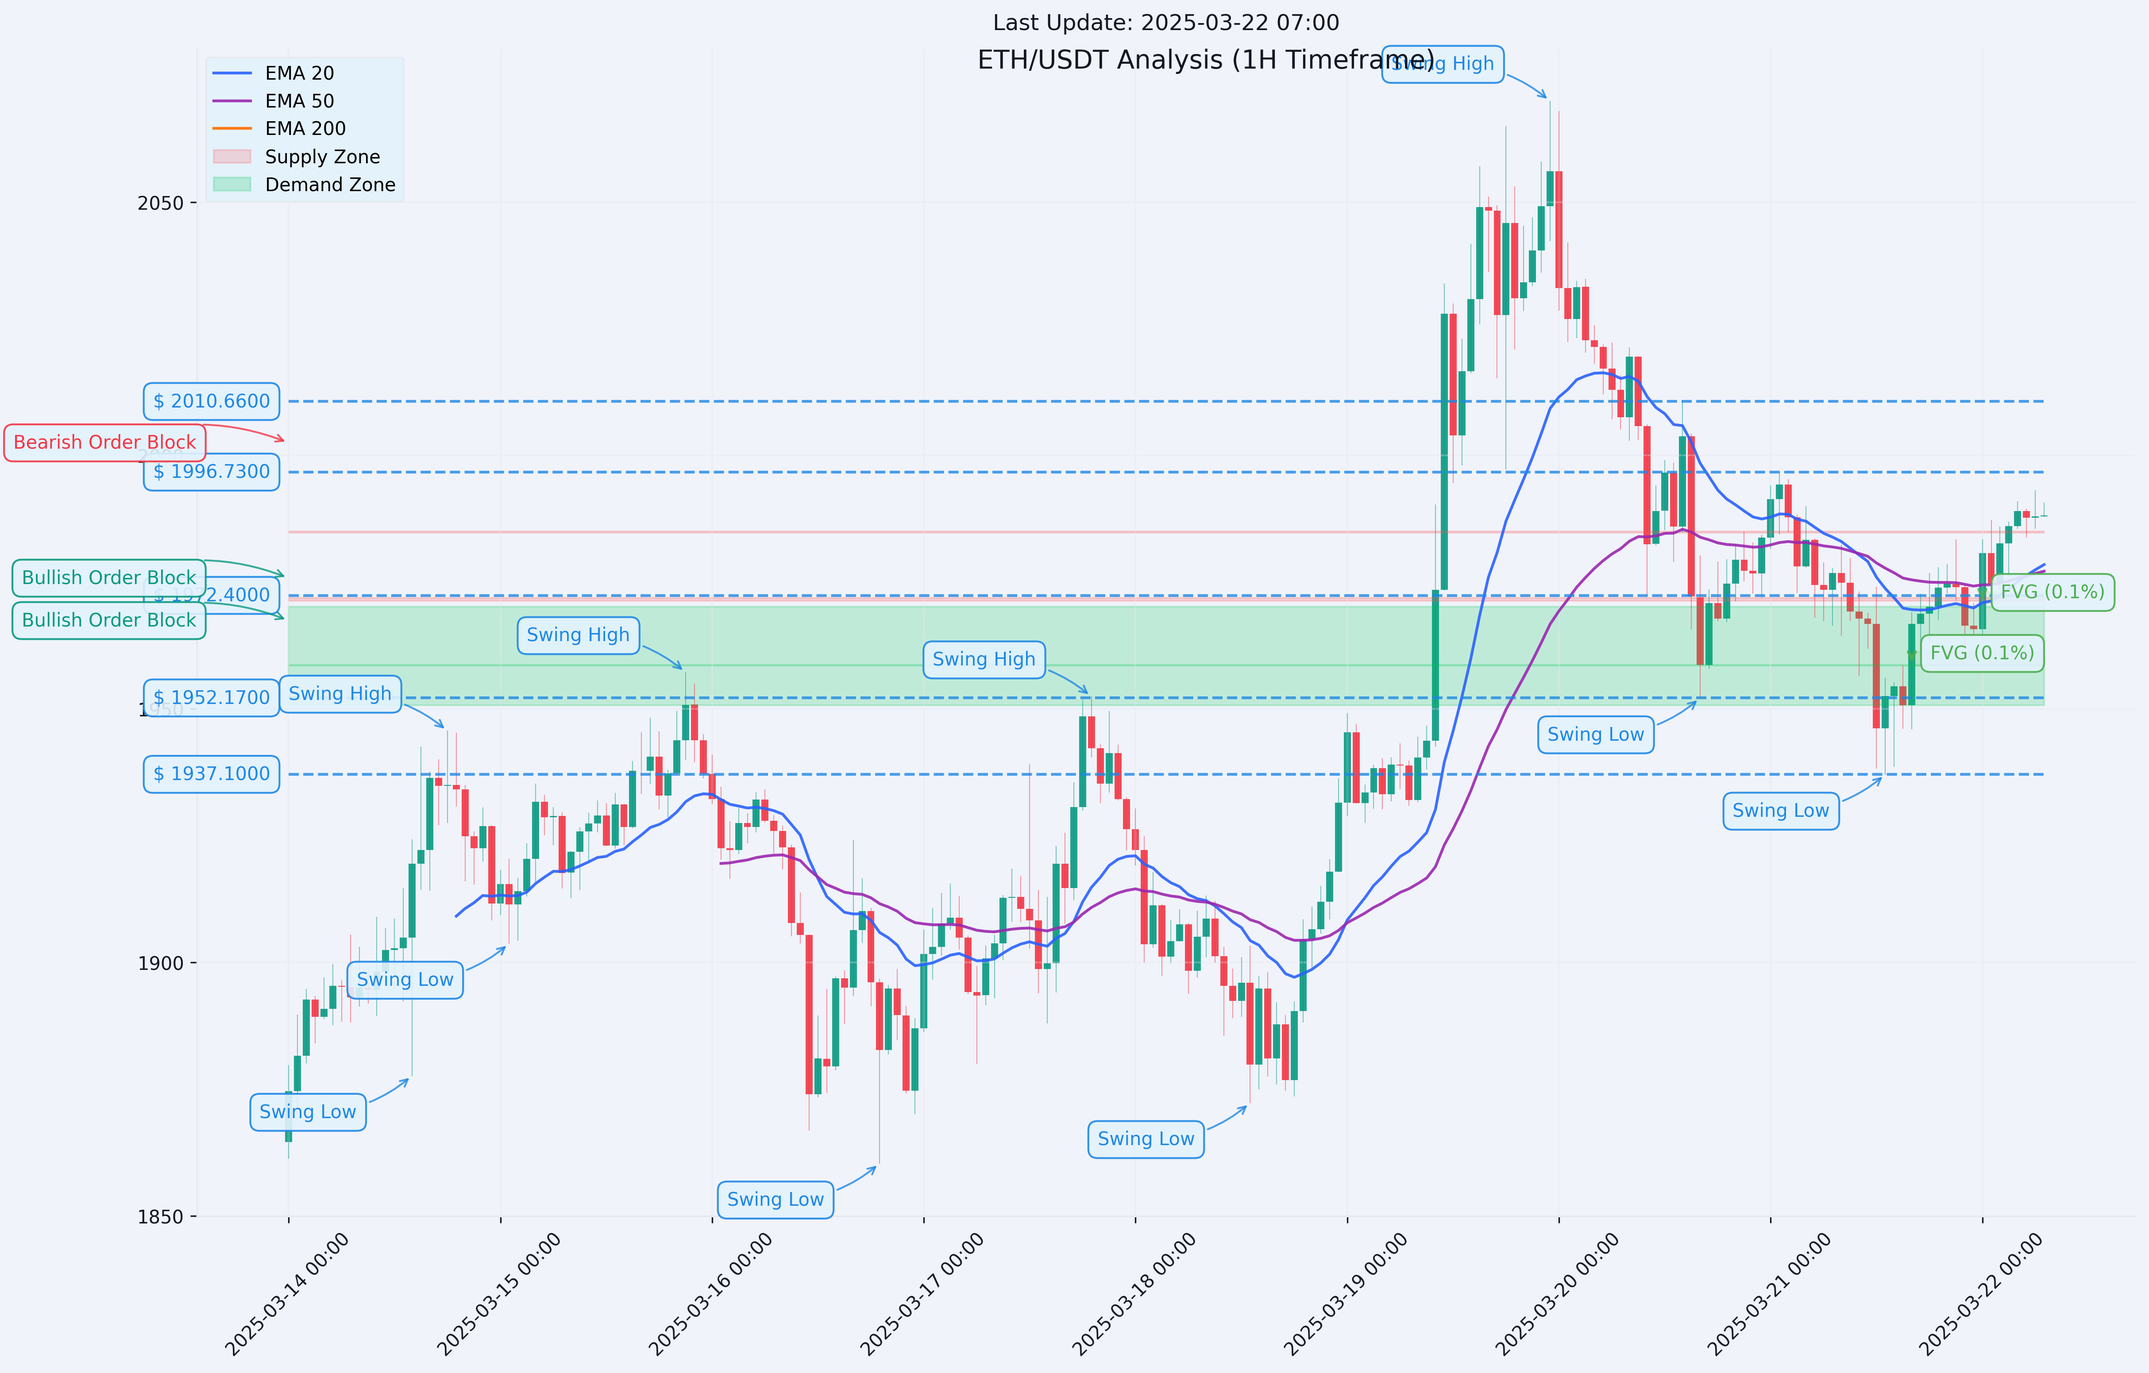
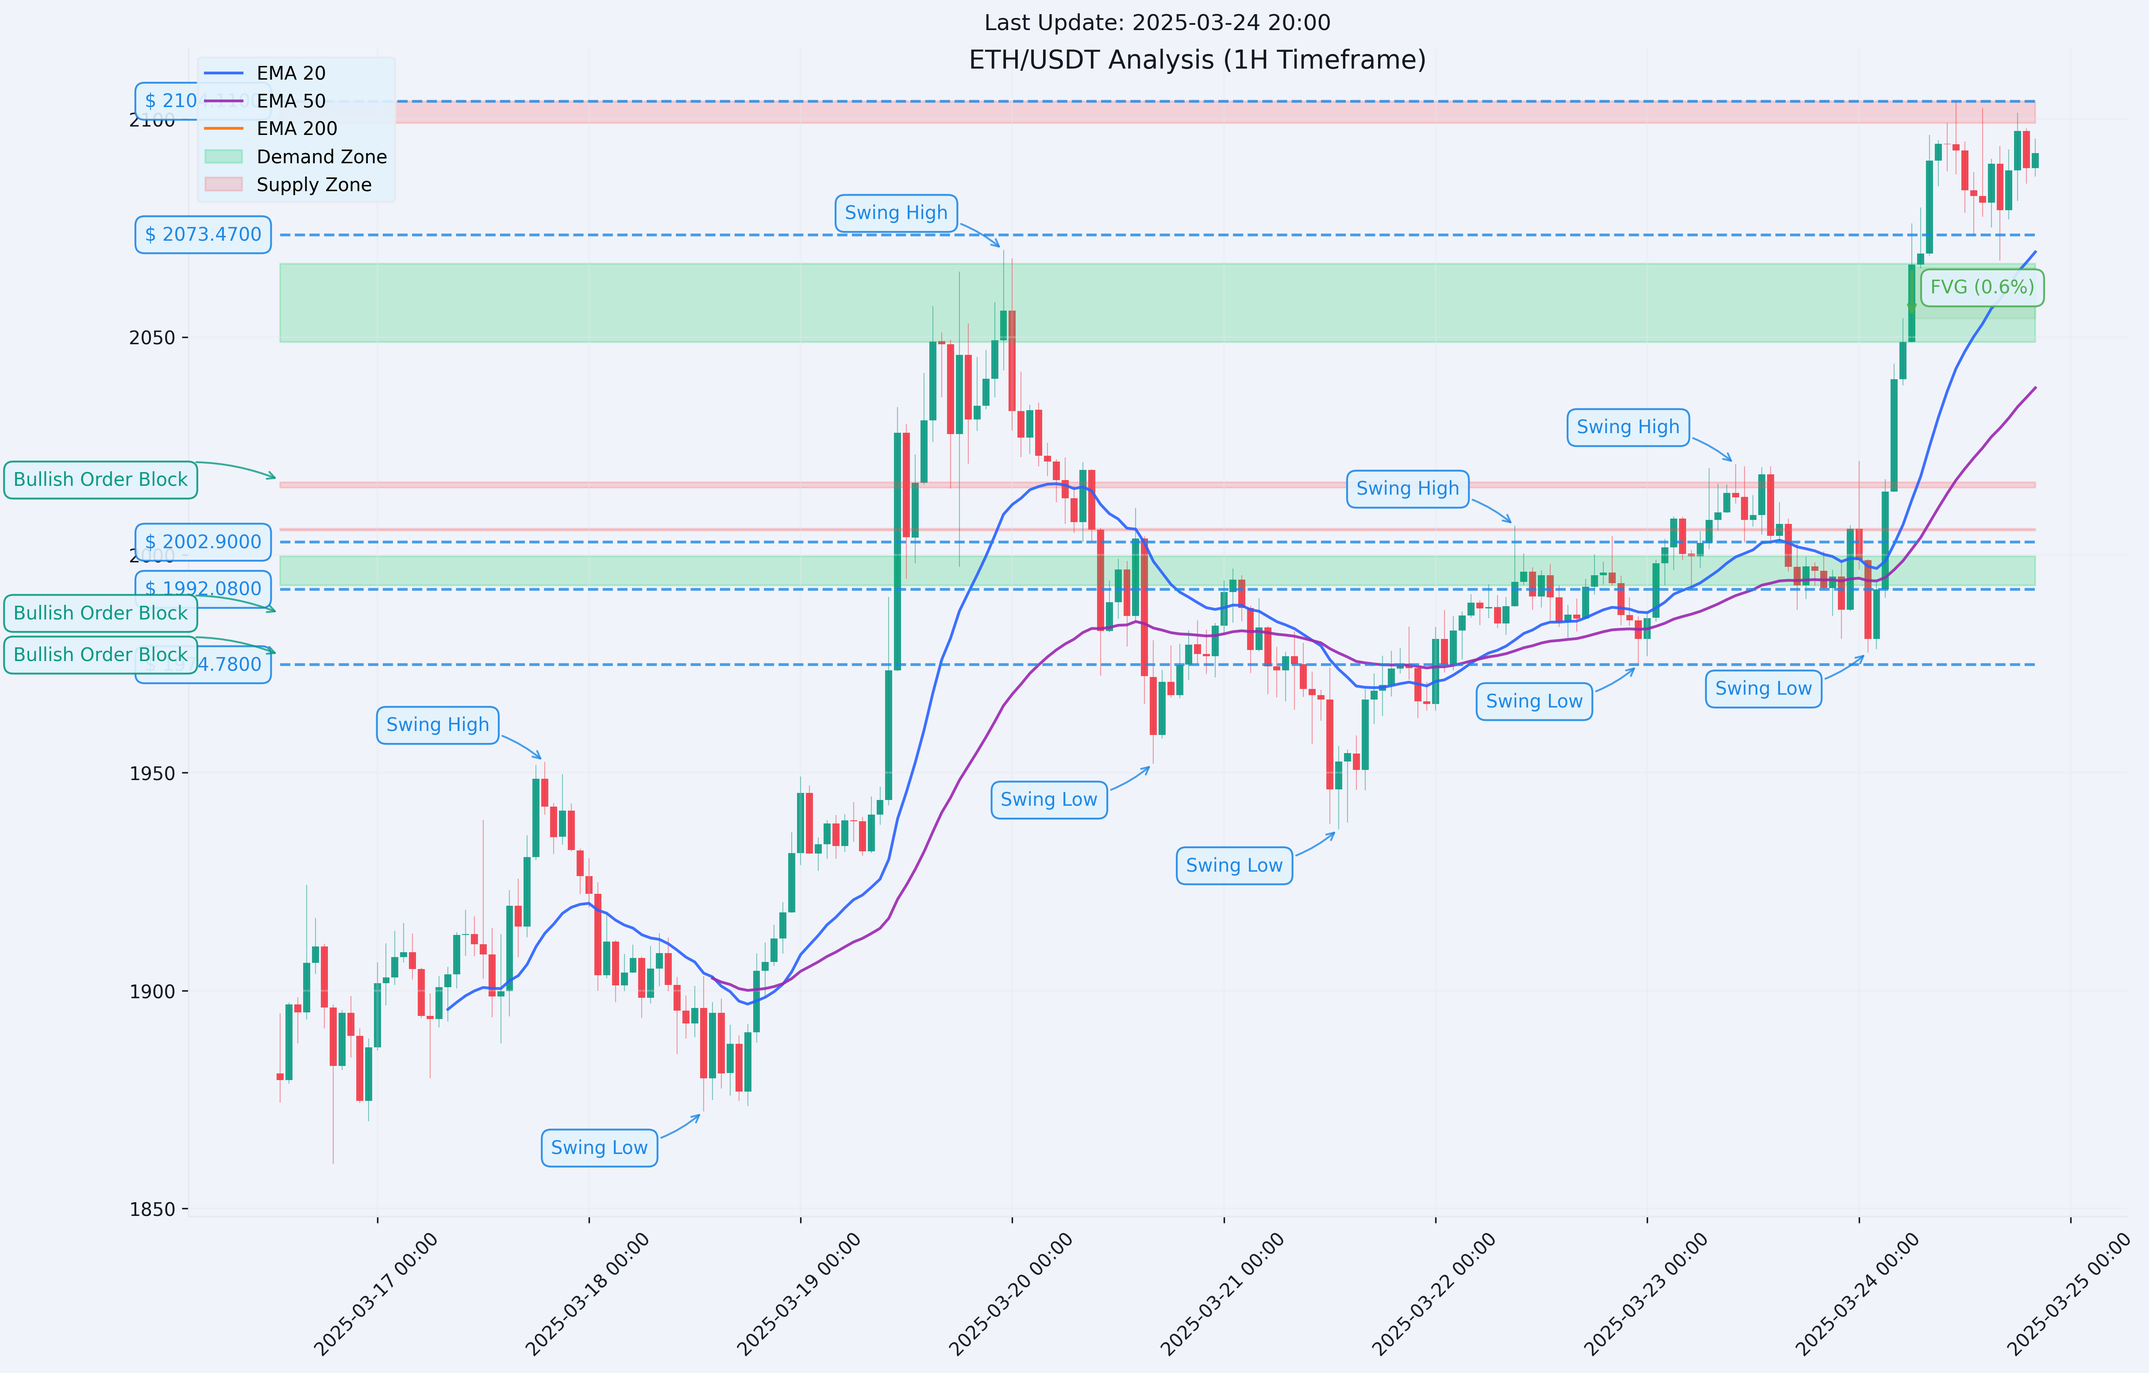
new

diff --git a/smc.py b/smc.py
@@ -17,18 +17,50 @@ ALPHA_VANTAGE_API_KEY = API_KEYS['alphavantage']
 OANDA_API_KEY = API_KEYS['oanda']
 MT5_TERMINAL_PATH = MT5_CONFIG['path']
 
+
+
 # Initialize exchange (using ccxt)
 def initialize_exchange(exchange_id='binance', api_key=None, secret=None):
-    exchange_class = getattr(ccxt, exchange_id)
-    exchange = exchange_class({
-        'apiKey': api_key,
-        'secret': secret,
-        'enableRateLimit': True,
-    })
-    return exchange
+    try:
+        exchange_class = getattr(ccxt, exchange_id)
+        exchange = exchange_class({
+            'apiKey': api_key,
+            'secret': secret,
+            'enableRateLimit': True,
+            'options': {
+                'defaultType': 'spot',  # Set to 'spot' for spot trading
+                'adjustForTimeDifference': True,
+                'recvWindow': 60000,  # Increased timeout
+            },
+            'timeout': 30000,  # 30 seconds timeout
+        })
 
+        # Load markets to ensure proper symbol mapping
+        exchange.load_markets()
+
+        # Set specific settings for BTC analysis
+        exchange.options['warnOnFetchOHLCVLimitArgument'] = False
+        exchange.options['fetchOHLCVWarning'] = False
+        
+        # Test connection with a simple BTC ticker request
+        try:
+            exchange.fetch_ticker('BTC/USDT')
+        except Exception as e:
+            print(f"Error testing BTC ticker: {e}")
+            return None
+            
+        return exchange
+    except Exception as e:
+        print(f"Error initializing exchange: {e}")
+        return None
+
+# Initialize with better error handling
 exchange = initialize_exchange()
+if exchange is None:
+    print("Warning: Exchange initialization failed. Using backup data source.")
+   
 
+   # Initialize MT5 connection
 def initialize_forex_connection():
     """Initialize connection for forex data"""
     try:
@@ -215,6 +247,7 @@ def add_technical_indicators(df):
     df['atr'] = ta.volatility.average_true_range(df['high'], df['low'], df['close'])
     
     return df
+
 
 
 # ===== LIQUIDITY DETECTION =====
@@ -576,8 +609,8 @@ def plot_chart(df, liquidity_zones, supply_demand_zones, order_blocks,
         'bar_up': '#089981',       # Forest green for bullish
         'bar_down': '#f23645',     # Crimson red for bearish
         'ma1': '#2962ff',          # Royal blue for EMA 20
-        'ma2': '#9c27b0',         # Purple for EMA 50
-        'ma3': '#ff6d00',         # Orange for EMA 200
+        'ma2': '#9c27b0',          # Purple for EMA 50
+        'ma3': '#ff6d00',          # Orange for EMA 200
         'text': '#131722',         # Dark gray text
         'liquidity': '#1E88E5',    # Main blue for liquidity zones
         'supply': '#FF5252',       # Red for supply zones
@@ -624,27 +657,67 @@ def plot_chart(df, liquidity_zones, supply_demand_zones, order_blocks,
     # Plot entry points, stop-loss, and take-profit levels with prices
     if not smart_entries.empty:
         last_timestamp = df['timestamp_mpl'].iloc[-1]
+        timestamp_width = last_timestamp - df['timestamp_mpl'].iloc[-2]
+        
         for _, entry in smart_entries.iterrows():
             # Entry point line and price
-            ax_main.axhline(y=entry['entry_price'], color='yellow', linestyle='--', alpha=0.8)
-            ax_main.text(last_timestamp, entry['entry_price'], 
+            ax_main.axhline(y=entry['entry_price'], color='yellow', linestyle='--', linewidth=2, alpha=0.8)
+            ax_main.plot([last_timestamp - timestamp_width, last_timestamp + timestamp_width], 
+                        [entry['entry_price'], entry['entry_price']], 
+                        color='yellow', linewidth=2, alpha=1)
+            ax_main.text(last_timestamp + timestamp_width*0.5, entry['entry_price'], 
                         f" Entry @ {entry['entry_price']:.4f}", 
-                        color='yellow', fontweight='bold', va='bottom', ha='left',
-                        bbox=dict(facecolor='black', alpha=0.7, edgecolor='yellow'))
+                        color='yellow', fontweight='bold', va='center', ha='left',
+                        bbox=dict(facecolor='black', alpha=0.8, edgecolor='yellow', pad=3))
 
             # Stop-loss line and price
-            ax_main.axhline(y=entry['stop_loss'], color='red', linestyle='--', alpha=0.8)
-            ax_main.text(last_timestamp, entry['stop_loss'], 
+            ax_main.axhline(y=entry['stop_loss'], color='red', linestyle='--', linewidth=2, alpha=0.8)
+            ax_main.plot([last_timestamp - timestamp_width, last_timestamp + timestamp_width], 
+                        [entry['stop_loss'], entry['stop_loss']], 
+                        color='red', linewidth=2, alpha=1)
+            ax_main.text(last_timestamp + timestamp_width*0.5, entry['stop_loss'], 
                         f" SL @ {entry['stop_loss']:.4f}", 
-                        color='red', fontweight='bold', va='bottom', ha='left',
-                        bbox=dict(facecolor='black', alpha=0.7, edgecolor='red'))
+                        color='red', fontweight='bold', va='center', ha='left',
+                        bbox=dict(facecolor='black', alpha=0.8, edgecolor='red', pad=3))
 
             # Take-profit line and price
-            ax_main.axhline(y=entry['take_profit'], color='green', linestyle='--', alpha=0.8)
-            ax_main.text(last_timestamp, entry['take_profit'], 
+            ax_main.axhline(y=entry['take_profit'], color='green', linestyle='--', linewidth=2, alpha=0.8)
+            ax_main.plot([last_timestamp - timestamp_width, last_timestamp + timestamp_width], 
+                        [entry['take_profit'], entry['take_profit']], 
+                        color='green', linewidth=2, alpha=1)
+            ax_main.text(last_timestamp + timestamp_width*0.5, entry['take_profit'], 
                         f" TP @ {entry['take_profit']:.4f}", 
-                        color='green', fontweight='bold', va='bottom', ha='left',
-                        bbox=dict(facecolor='black', alpha=0.7, edgecolor='green'))
+                        color='green', fontweight='bold', va='center', ha='left',
+                        bbox=dict(facecolor='black', alpha=0.8, edgecolor='green', pad=3))
+
+            # Add connecting lines with arrows
+            ax_main.annotate('', xy=(last_timestamp, entry['stop_loss']), 
+                           xytext=(last_timestamp, entry['entry_price']),
+                           arrowprops=dict(arrowstyle='<->', color='yellow', lw=1.5, alpha=0.6))
+            ax_main.annotate('', xy=(last_timestamp, entry['entry_price']), 
+                           xytext=(last_timestamp, entry['take_profit']),
+                           arrowprops=dict(arrowstyle='<->', color='yellow', lw=1.5, alpha=0.6))
+
+            # Add Risk:Reward ratio and trade direction
+            risk = abs(entry['entry_price'] - entry['stop_loss'])
+            reward = abs(entry['take_profit'] - entry['entry_price'])
+            rr_ratio = reward / risk
+            mid_price = entry['entry_price'] + (entry['take_profit'] - entry['entry_price']) / 2
+            
+            # Display R:R ratio
+            ax_main.text(last_timestamp + timestamp_width*0.5, mid_price,
+                        f"R:R = 1:{rr_ratio:.1f}",
+                        color='white', fontweight='bold', ha='left', va='center',
+                        bbox=dict(facecolor='black', alpha=0.8, edgecolor='yellow', pad=3))
+
+            # Display trade direction
+            direction_color = 'yellow' if entry['type'] == 'long' else 'red'
+            ax_main.text(last_timestamp + timestamp_width*0.5, 
+                        entry['entry_price'] - (price_range * 0.02),
+                        f"{entry['type'].upper()} TRADE",
+                        color=direction_color, fontweight='bold', ha='left', va='top',
+                        bbox=dict(facecolor='black', alpha=0.8, 
+                                edgecolor=direction_color, pad=3))
 
     # Initialize label position trackers
     right_labels = []
@@ -878,6 +951,19 @@ def analyze_market(symbol, chart_timeframe='4h', entry_timeframe='15m'):
     signals = generate_trading_signals(df_entry, liquidity_zones, supply_demand_zones, 
                                     order_blocks, candlestick_patterns, smart_entries, trend)
     
+    # Convert signals to smart_entries format for plotting
+    if not signals.empty:
+        smart_entries = pd.DataFrame([{
+            'type': signal['signal_type'],
+            'entry_price': signal['entry_price'],
+            'stop_loss': signal['stop_loss'],
+            'take_profit': signal['take_profit']
+        } for _, signal in signals.iterrows()])
+    
+    # Plot using 4h data but mark entry points from signals
+    plot_chart(df_chart, liquidity_zones, supply_demand_zones, order_blocks, 
+              candlestick_patterns, smart_entries, fair_value_gaps, symbol)
+    
     # Log any potential trade setups
     if not signals.empty:
         log_trades(symbol, signals)
@@ -894,10 +980,6 @@ def analyze_market(symbol, chart_timeframe='4h', entry_timeframe='15m'):
     print(f"Order blocks found: {len(order_blocks)}")
     print(f"Candlestick patterns found: {len(candlestick_patterns)}")
     print(f"Smart entries found: {len(smart_entries)}")
-    
-    # Plot using 4h data but mark entry points from 15m analysis
-    plot_chart(df_chart, liquidity_zones, supply_demand_zones, order_blocks, 
-                  candlestick_patterns, smart_entries, fair_value_gaps, symbol)
     
     return {
         'symbol': symbol,
@@ -937,7 +1019,7 @@ def generate_trading_signals(df, liquidity_zones, supply_demand_zones,
                 'confidence': confidence,
                 'reason': entry['reason'],
                 'risk_reward_ratio': abs(entry['take_profit'] - entry['entry_price']) / abs(entry['entry_price'] - entry['stop_loss'])
-            })
+            })   
         
         return pd.DataFrame(signals)
     
@@ -1490,6 +1572,7 @@ def main():
             print(f"Reason: {signal['reason']}")
             print(f"Risk/Reward: 1:{signal['risk_reward_ratio']}")
             print("-" * 30)
+    
 
 if __name__ == "__main__":
     main()

diff --git a/entries.py b/entries.py
@@ -1,0 +1,135 @@
+def identify_advanced_entries(df, order_blocks, fvgs, liquidity_zones, window=20):
+    """
+    Identify high-probability entries where multiple SMC concepts align:
+    - Order block test
+    - Fair Value Gap presence
+    - Break of Market Structure (BMS)
+    - Liquidity swipe
+    """
+    entries = []
+    current_price = df['close'].iloc[-1]
+    
+    # Get unmitigated components
+    unmitigated_obs = order_blocks[order_blocks['mitigated'] == False]
+    unmitigated_fvgs = fvgs[fvgs['filled'] == False]
+    
+    # Identify BMS points
+    structure_breaks = identify_market_structure_breaks(df)
+    recent_breaks = structure_breaks[structure_breaks['timestamp'] >= df['timestamp'].iloc[-window]]
+    
+    for i in range(len(df)-window, len(df)-1):
+        current_candle = df.iloc[i]
+        next_candle = df.iloc[i+1]
+        
+        # === BULLISH ENTRY CONDITIONS ===
+        bullish_conditions = []
+        
+        # 1. Check for bullish order block test
+        has_bullish_ob = False
+        for _, ob in unmitigated_obs[unmitigated_obs['type'] == 'bullish'].iterrows():
+            if current_candle['low'] <= ob['high'] and current_candle['close'] > ob['low']:
+                has_bullish_ob = True
+                ob_level = ob['high']
+                bullish_conditions.append("Bullish OB test")
+                break
+        
+        # 2. Check for bullish FVG above
+        has_bullish_fvg = False
+        for _, fvg in unmitigated_fvgs[unmitigated_fvgs['type'] == 'bullish'].iterrows():
+            if current_price < fvg['bottom'] and abs(current_price - fvg['bottom'])/current_price < 0.02:
+                has_bullish_fvg = True
+                fvg_level = fvg['bottom']
+                bullish_conditions.append("Bullish FVG above")
+                break
+        
+        # 3. Check for recent bullish BMS
+        has_bullish_bms = False
+        for _, bms in recent_breaks[recent_breaks['type'].str.contains('Bullish')].iterrows():
+            if bms['timestamp'] <= current_candle['timestamp'] and bms['price'] < current_price:
+                has_bullish_bms = True
+                bms_level = bms['price']
+                bullish_conditions.append("Bullish BMS")
+                break
+        
+        # 4. Check for liquidity swipe below
+        has_liquidity_swipe = False
+        for _, liq in liquidity_zones[liquidity_zones['type'] == 'liquidity_low'].iterrows():
+            if current_candle['low'] <= liq['level'] and next_candle['close'] > liq['level']:
+                has_liquidity_swipe = True
+                liquidity_level = liq['level']
+                bullish_conditions.append("Liquidity swipe")
+                break
+        
+        # === BEARISH ENTRY CONDITIONS ===
+        bearish_conditions = []
+        
+        # 1. Check for bearish order block test
+        has_bearish_ob = False
+        for _, ob in unmitigated_obs[unmitigated_obs['type'] == 'bearish'].iterrows():
+            if current_candle['high'] >= ob['low'] and current_candle['close'] < ob['high']:
+                has_bearish_ob = True
+                ob_level = ob['low']
+                bearish_conditions.append("Bearish OB test")
+                break
+        
+        # 2. Check for bearish FVG below
+        has_bearish_fvg = False
+        for _, fvg in unmitigated_fvgs[unmitigated_fvgs['type'] == 'bearish'].iterrows():
+            if current_price > fvg['top'] and abs(current_price - fvg['top'])/current_price < 0.02:
+                has_bearish_fvg = True
+                fvg_level = fvg['top']
+                bearish_conditions.append("Bearish FVG below")
+                break
+        
+        # 3. Check for recent bearish BMS
+        has_bearish_bms = False
+        for _, bms in recent_breaks[recent_breaks['type'].str.contains('Bearish')].iterrows():
+            if bms['timestamp'] <= current_candle['timestamp'] and bms['price'] > current_price:
+                has_bearish_bms = True
+                bms_level = bms['price']
+                bearish_conditions.append("Bearish BMS")
+                break
+        
+        # 4. Check for liquidity swipe above
+        has_bearish_liquidity = False
+        for _, liq in liquidity_zones[liquidity_zones['type'] == 'liquidity_high'].iterrows():
+            if current_candle['high'] >= liq['level'] and next_candle['close'] < liq['level']:
+                has_bearish_liquidity = True
+                liquidity_level = liq['level']
+                bearish_conditions.append("Liquidity swipe")
+                break
+        
+        # === GENERATE ENTRY SIGNALS ===
+        # Bullish Entry (minimum 3 conditions)
+        if len(bullish_conditions) >= 3:
+            stop_loss = min(current_candle['low'], liquidity_level if has_liquidity_swipe else float('inf')) * 0.998
+            take_profit = current_price + (current_price - stop_loss) * 2
+            
+            entries.append({
+                'timestamp': current_candle['timestamp'],
+                'type': 'long',
+                'entry_price': current_price,
+                'stop_loss': stop_loss,
+                'take_profit': take_profit,
+                'confidence': 'high' if len(bullish_conditions) >= 4 else 'medium',
+                'conditions': ', '.join(bullish_conditions),
+                'risk_reward': round((take_profit - current_price) / (current_price - stop_loss), 2)
+            })
+        
+        # Bearish Entry (minimum 3 conditions)
+        if len(bearish_conditions) >= 3:
+            stop_loss = max(current_candle['high'], liquidity_level if has_bearish_liquidity else float('-inf')) * 1.002
+            take_profit = current_price - (stop_loss - current_price) * 2
+            
+            entries.append({
+                'timestamp': current_candle['timestamp'],
+                'type': 'short',
+                'entry_price': current_price,
+                'stop_loss': stop_loss,
+                'take_profit': take_profit,
+                'confidence': 'high' if len(bearish_conditions) >= 4 else 'medium',
+                'conditions': ', '.join(bearish_conditions),
+                'risk_reward': round((current_price - take_profit) / (stop_loss - current_price), 2)
+            })
+    
+    return pd.DataFrame(entries)
